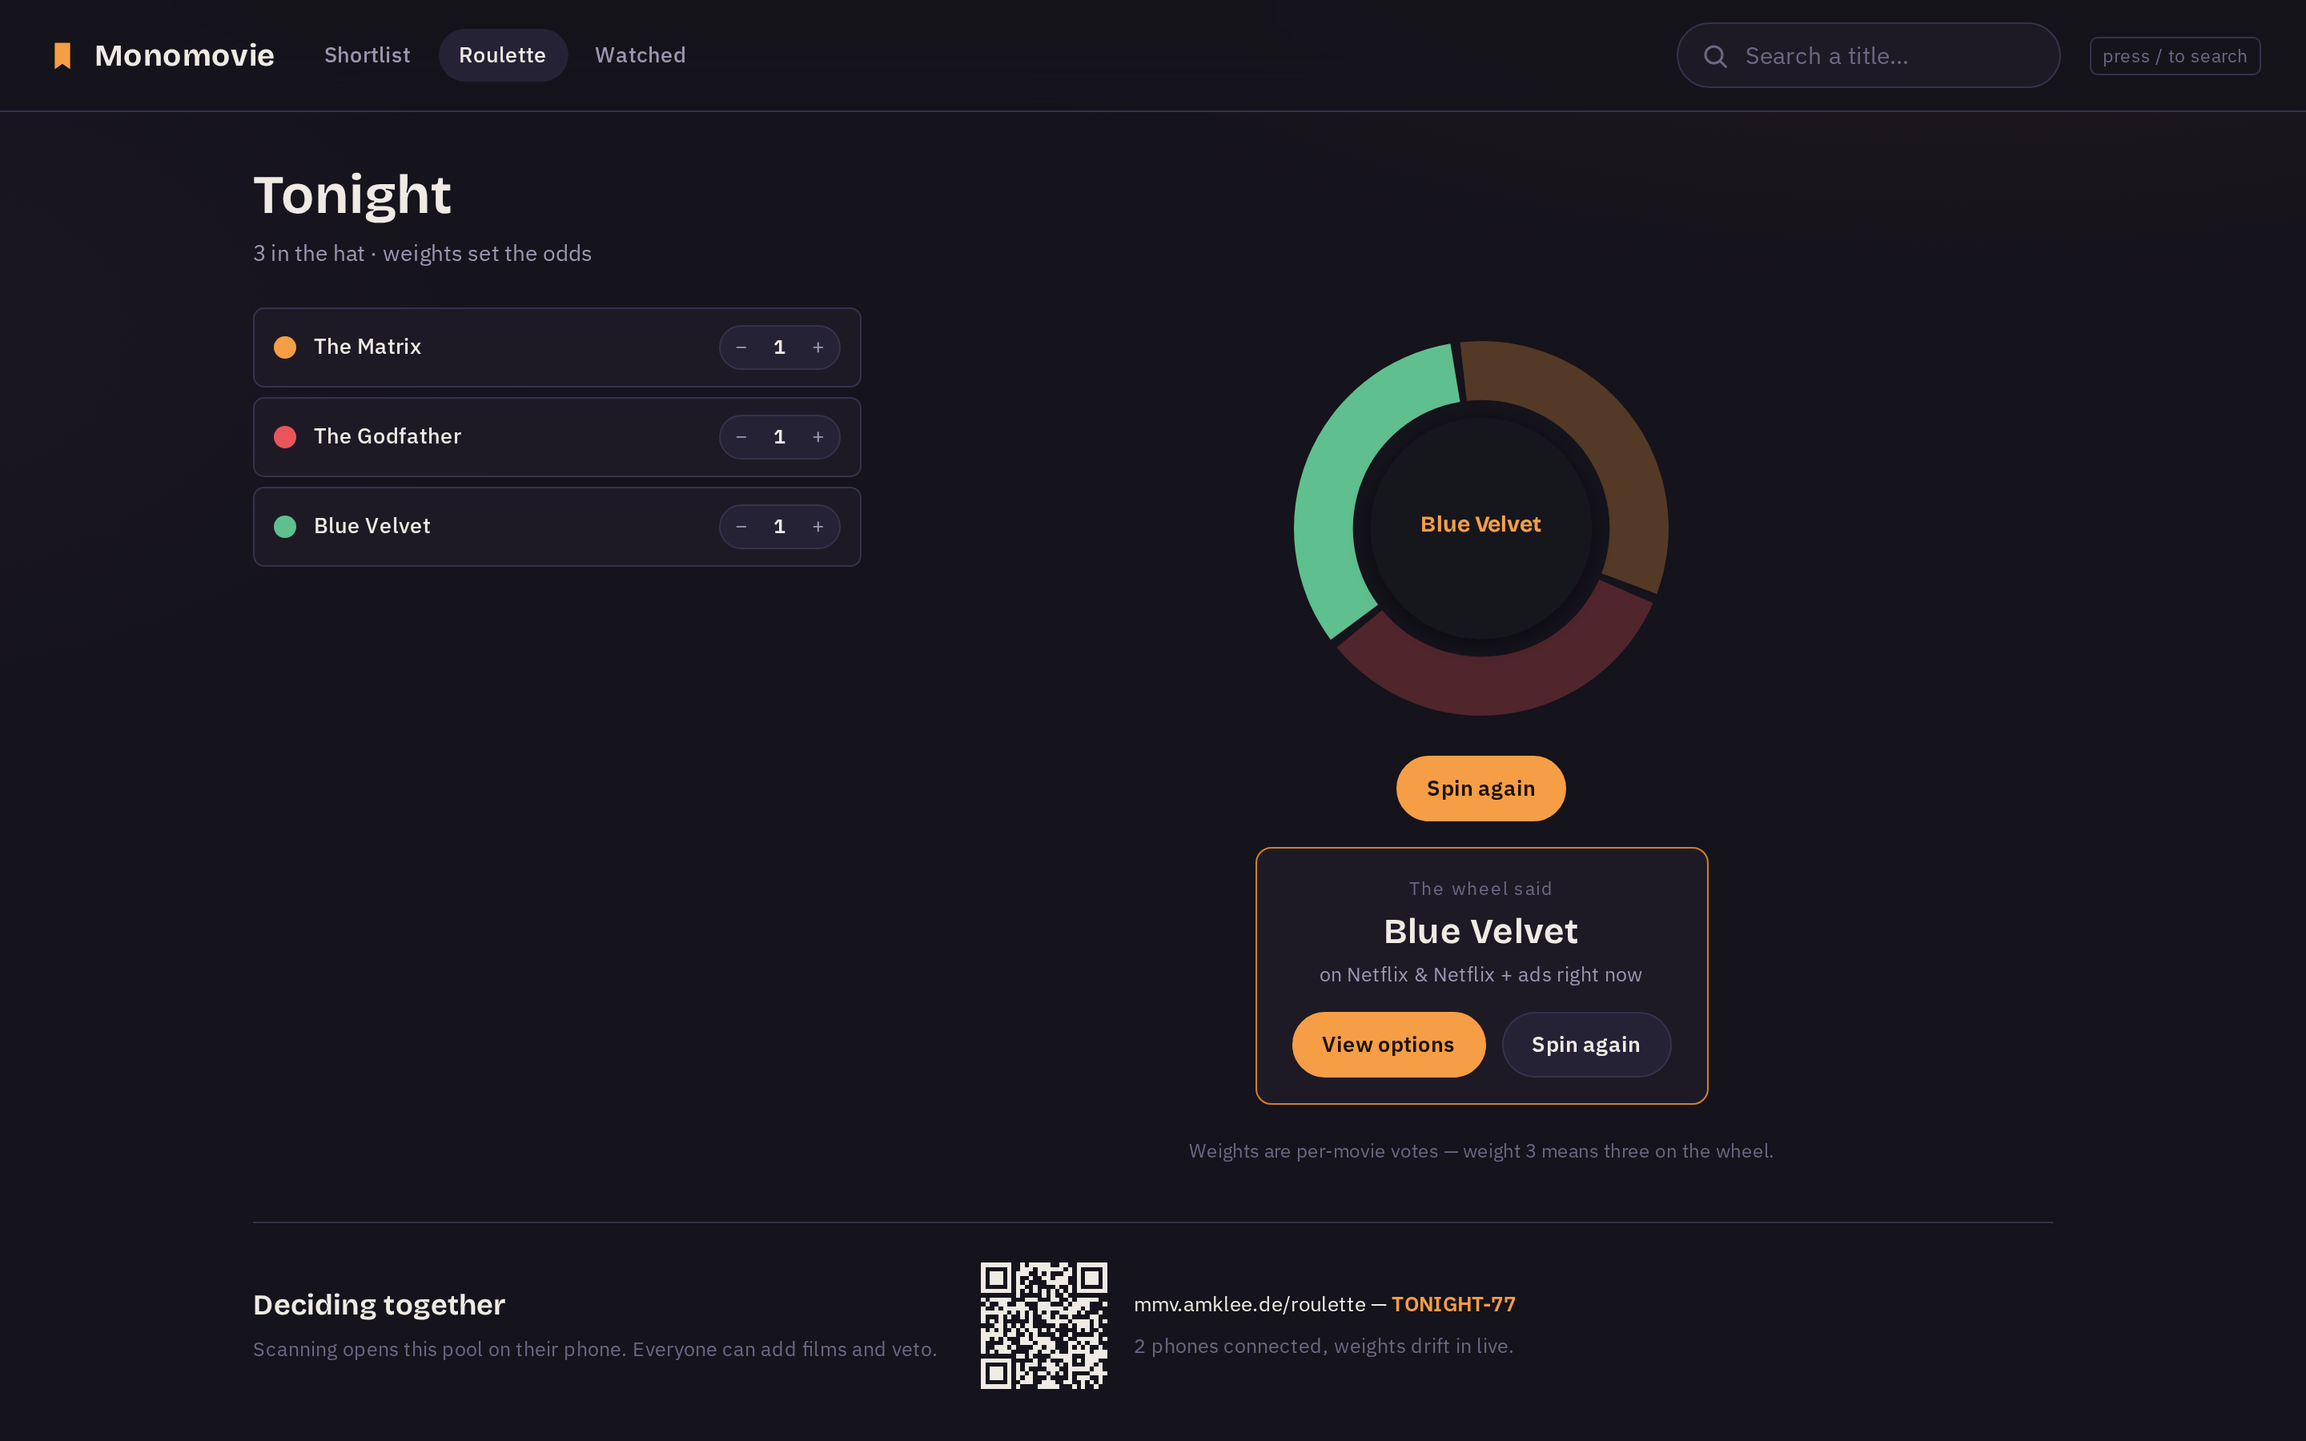
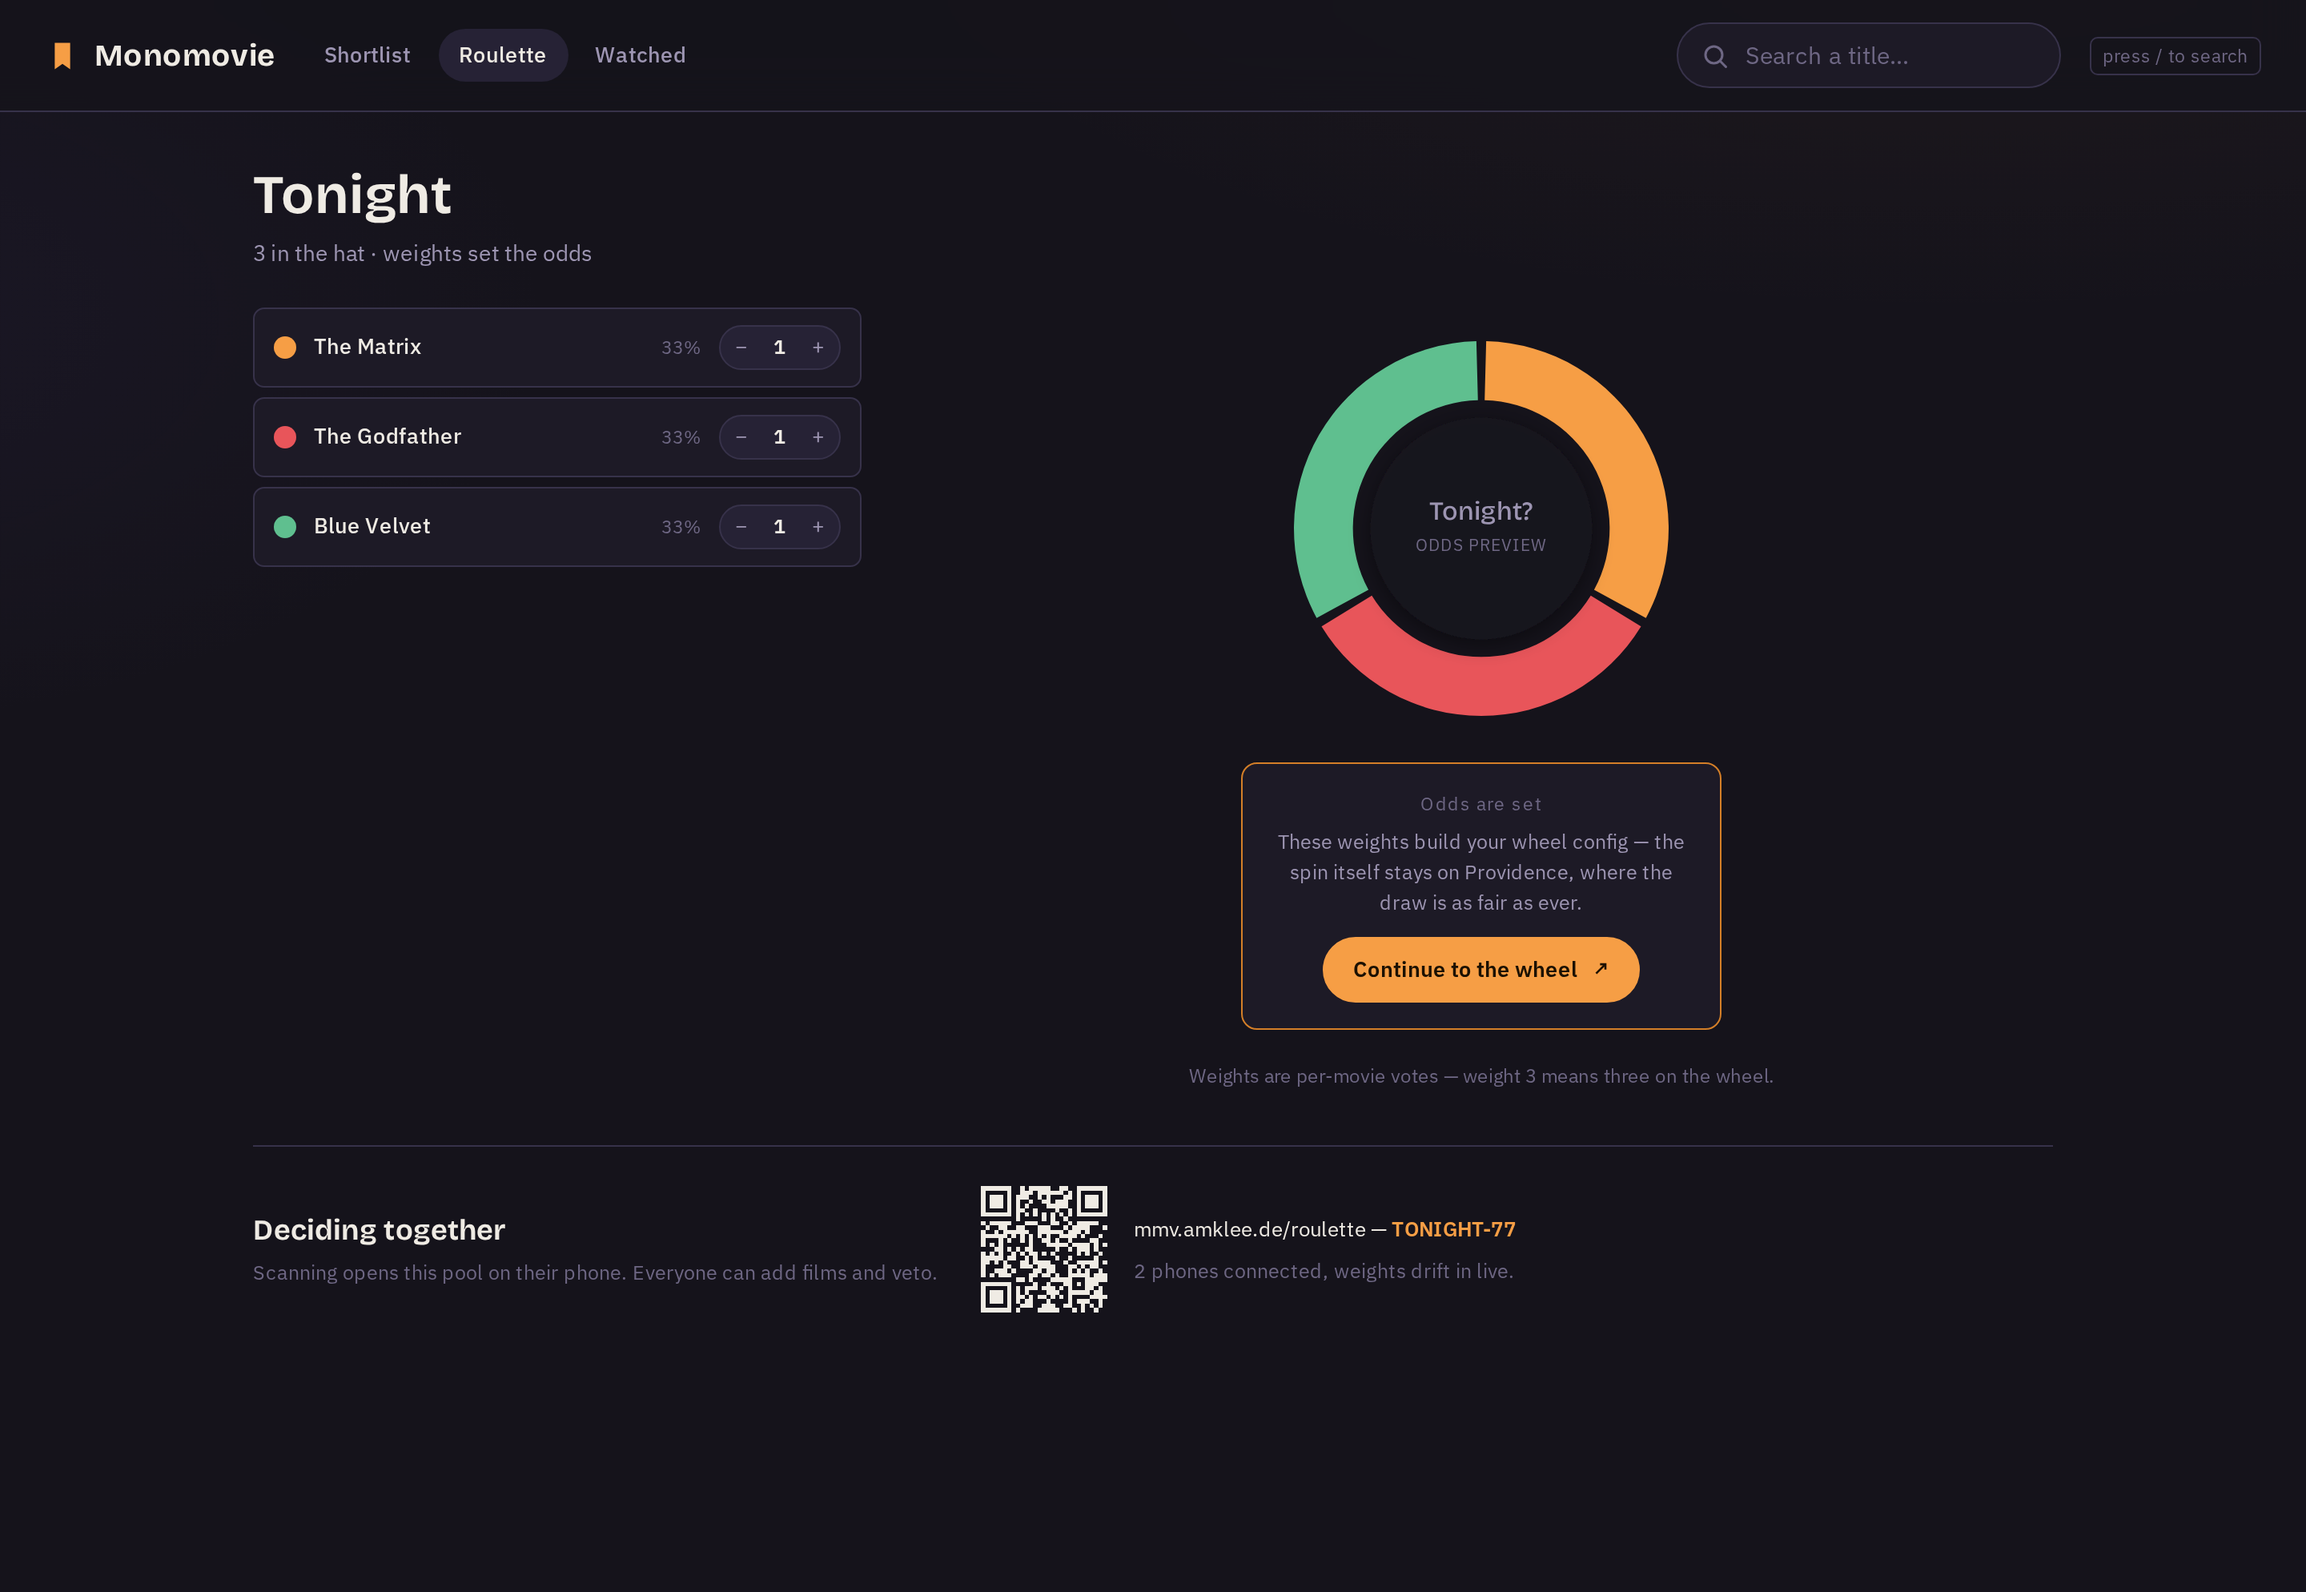
feat: don't slopulate another roulette

diff --git a/design-mockups/src/RouletteView.tsx b/design-mockups/src/RouletteView.tsx
@@ -1,5 +1,5 @@
 import { useMemo, useState } from "react";
-import { byId, type Movie } from "./data";
+import { type Movie } from "./data";
 import { mockQr } from "./qr";
 import Icons from "./Icons";
 
@@ -23,8 +23,8 @@ function sectorPath(cx: number, cy: number, r0: number, r1: number, a0: number, 
   ].join(" ");
 }
 
-function Wheel({ picks, weights, winner, spinning }: {
-  picks: Movie[]; weights: Record<string, number>; winner: string | null; spinning: boolean;
+function Wheel({ picks, weights }: {
+  picks: Movie[]; weights: Record<string, number>;
 }) {
   const on = picks.filter(m => (weights[m.id] ?? 1) > 0);
   const total = on.reduce((sum, m) => sum + (weights[m.id] ?? 1), 0) || 1;
@@ -42,7 +42,7 @@ function Wheel({ picks, weights, winner, spinning }: {
           <feDropShadow dx="0" dy="3" stdDeviation="6" floodOpacity="0.45" />
         </filter>
       </defs>
-      <g className={spinning ? "spin-g" : undefined}>
+      <g>
         {segments.map(({ m, start, end }) => {
           const pad = segments.length > 1 ? 1.5 : 0;
           return (
@@ -50,18 +50,13 @@ function Wheel({ picks, weights, winner, spinning }: {
               key={m.id}
               d={sectorPath(120, 120, 74, 108, start + pad, end - pad)}
               fill={m.wheel}
-              opacity={winner && winner !== m.id ? 0.28 : 1}
             />
           );
         })}
       </g>
       <circle cx="120" cy="120" r="64" fill="rgba(21,19,27,.92)" filter="url(#wheel-shadow)" />
-      {winner == null && <text className="wheel-center" x="120" y="118">Tonight?</text>}
-      {winner != null && (
-        <text className="wheel-center wheel-center-winner" x="120" y="122">
-          {byId[winner]?.title.split(" ").slice(0, 2).join(" ")}
-        </text>
-      )}
+      <text className="wheel-center" x="120" y="115">Tonight?</text>
+      <text className="wheel-center-sub" x="120" y="133">odds preview</text>
     </svg>
   );
 }
@@ -83,25 +78,17 @@ export default function RouletteView({ pickedMovies, weightOf, setWeight, open }
   open: (id: string) => void;
 }) {
   const weights = useMemo(() => Object.fromEntries(pickedMovies.map(m => [m.id, weightOf(m.id)])), [pickedMovies, weightOf]);
-  const [spinning, setSpinning] = useState(false);
-  const [winner, setWinner] = useState<string | null>(null);
   const [shared, setShared] = useState(false);
 
-  const go = () => {
-    if (pickedMovies.length < 2) return;
-    setWinner(null);
-    setSpinning(true);
-    // weighted draw, revealed after the animation
-    const pool: string[] = [];
-    for (const m of pickedMovies) {
-      const w = weightOf(m.id);
-      for (let i = 0; i < w; i++) pool.push(m.id);
-    }
-    window.setTimeout(() => {
-      setWinner(pool[Math.floor(Math.random() * pool.length)] ?? null);
-      setSpinning(false);
-    }, 2600);
-  };
+  const weighted = pickedMovies.filter(m => weightOf(m.id) > 0);
+  const totalWeight = weighted.reduce((sum, m) => sum + weightOf(m.id), 0);
+  const odds = useMemo(
+    () => Object.fromEntries(pickedMovies.map(m => [
+      m.id,
+      weightOf(m.id) === 0 ? "—" : `${Math.round((weightOf(m.id) / (totalWeight || 1)) * 100)}%`,
+    ])),
+    [pickedMovies, weightOf, totalWeight],
+  );
 
   if (pickedMovies.length === 0) {
     return (
@@ -128,34 +115,27 @@ export default function RouletteView({ pickedMovies, weightOf, setWeight, open }
             <li key={m.id} className="roulette-row">
               <button className="roulette-swatch" style={{ background: m.wheel }} aria-hidden="true" onClick={() => open(m.id)} />
               <button className="roulette-title" onClick={() => open(m.id)}>{m.title}</button>
+              <span className="roulette-odds" title="Share of the wheel">{odds[m.id]}</span>
               <Stepper w={weightOf(m.id)} onChange={w => setWeight(m.id, w)} />
             </li>
           ))}
         </ul>
         <div className="roulette-stage">
-          <Wheel picks={pickedMovies} weights={weights} winner={winner} spinning={spinning} />
-          {winner == null && (
-            <button className="btn btn-primary btn-spin" onClick={go} disabled={spinning || pickedMovies.length < 2}>
-              {spinning ? "Spinning…" : "Spin the wheel"}
-            </button>
-          )}
-          {winner && (() => {
-            const w = byId[winner];
-            const flat = w.offers.filter(o => o.type === "flatrate");
-            return (
-              <div className="winner-card" role="status">
-                <p className="winner-label">The wheel said</p>
-                <h2 className="winner-title">{w.title}</h2>
-                {flat.length > 0 && (
-                  <p className="winner-sub">on {flat.slice(0, 2).map(o => o.provider).join(" & ")} right now</p>
-                )}
-                <div className="winner-actions">
-                  <a className="btn btn-primary" href={`#/movie/${w.id}`}>View options</a>
-                  <button className="btn" onClick={() => { setWinner(null); }}>Spin again</button>
-                </div>
-              </div>
-            );
-          })()}
+          <Wheel picks={pickedMovies} weights={weights} />
+          <div className="handoff-card" role="region" aria-label="Continue to the wheel">
+            <p className="handoff-kicker">Odds are set</p>
+            <p className="handoff-sub">
+              These weights build your wheel config — the spin itself stays on Providence,
+              where the draw is as fair as ever.
+            </p>
+            {totalWeight > 0 ? (
+              <a className="btn btn-primary" href="https://providence.jfronny.dev" target="_blank" rel="noreferrer">
+                Continue to the wheel <span className="ext-mark" aria-hidden="true">↗</span>
+              </a>
+            ) : (
+              <p className="handoff-sub handoff-hint">Give at least one film a weight to build the wheel.</p>
+            )}
+          </div>
           <p className="wheel-note">
             Weights are per-movie votes — weight 3 means three on the wheel.
           </p>

diff --git a/design-mockups/src/styles.css b/design-mockups/src/styles.css
@@ -380,6 +380,11 @@ verdict-none { color: var(--type-faint); font-size: 11px; }
   flex: 1; min-width: 0; white-space: nowrap; overflow: hidden; text-overflow: ellipsis;
 }
 .roulette-title:hover { color: var(--amber); }
+.roulette-odds {
+  flex: none; width: 38px; text-align: right;
+  font-size: 11.5px; font-variant-numeric: tabular-nums;
+  color: var(--type-faint); cursor: default;
+}
 .stepper {
   display: inline-flex; align-items: center; gap: 2px;
   border: 1px solid var(--line); border-radius: 999px; padding: 2px;
@@ -399,27 +404,23 @@ verdict-none { color: var(--type-faint); font-size: 11px; }
 
 .roulette-stage { display: flex; flex-direction: column; align-items: center; gap: 16px; padding-top: 8px; }
 .wheel { width: 260px; height: 260px; }
-.spin-g { transform-box: fill-box; transform-origin: center; animation: spin 2.6s cubic-bezier(0.15, 0.75, 0.25, 1) both; }
-@keyframes spin { from { transform: rotate(1377.5deg); } to { transform: rotate(1517.5deg); } }
-.wheel-dot { opacity: 0.9; }
 .wheel-center {
   font-family: "Bricolage Grotesque Variable", sans-serif;
   font-variation-settings: "wdth" 88, "wght" 500;
   fill: var(--type-dim); font-size: 15px; text-anchor: middle;
 }
-.wheel-center-winner { fill: var(--amber); font-size: 13px; font-variation-settings: "wdth" 88, "wght" 700; }
-.btn-spin { margin-top: -4px; }
+.wheel-center-sub { fill: var(--type-faint); font-size: 9.5px; letter-spacing: 0.08em; text-anchor: middle; text-transform: uppercase; }
 .wheel-note { color: var(--type-faint); font-size: 12px; margin: 4px 0 0; }
-.winner-card {
+.handoff-card {
   background: var(--ink-2); border: 1px solid var(--amber-deep);
   border-radius: var(--radius); padding: 16px 22px; text-align: center;
-  animation: rise 260ms ease both;
+  max-width: 300px; animation: rise 260ms ease both;
 }
 @keyframes rise { from { opacity: 0; transform: translateY(6px); } }
-.winner-label { margin: 0; color: var(--type-faint); font-size: 11.5px; letter-spacing: 0.05em; }
-.winner-title { margin: 6px 0 2px; font-size: 22px; }
-.winner-sub { margin: 0; color: var(--type-dim); font-size: 12.5px; }
-.winner-actions { display: flex; gap: 10px; justify-content: center; margin-top: 14px; }
+.handoff-kicker { margin: 0; color: var(--type-faint); font-size: 11.5px; letter-spacing: 0.05em; }
+.handoff-sub { margin: 6px 0 12px; color: var(--type-dim); font-size: 12.5px; line-height: 1.5; }
+.handoff-hint { margin: 0; color: var(--type-faint); }
+.ext-mark { font-size: 12px; margin-left: 2px; }
 
 .share-panel {
   margin-top: 34px; border-top: 1px solid var(--line); padding-top: 22px;

diff --git a/design-mockups/README.md b/design-mockups/README.md
@@ -29,7 +29,7 @@ visible object instead of a disabled grey button.
 | ---------------- | --------------------------------------------- | ---------------------------------------------------------------------- |
 | Home             | "Bookmarked Movies:", tall list rows          | **Shortlist**: poster grid, hover detail, filter chips                 |
 | Decision         | Weights only inside `/roulette`               | **Decision bar** fixed at bottom; picked movies carry wheel colours     |
-| Roulette         | Redirect to external wheel (providence)       | In-app wheel (donut, weights, spin → winner card). Shared room + QR     |
+| Roulette         | Redirect to external wheel (providence)       | **Odds preview**: live donut + per-movie % as you tune weights, then a hand-off card that opens the real spin on Providence. Shared room + QR |
 | Offers page      | All ISO countries tabled at once              | DE-first groups (subscription / free / rent / buy), countries collapsed |
 | Watched          | Date-grouped list                             | Month-grouped ledger with one-line rows and un-watch affordance        |
 | Search           | Separate page + infinite scroll               | Ambient header search (`/` shortcut), live results, type badge         |
@@ -42,7 +42,7 @@ Type: **Bricolage Grotesque** (display) + **IBM Plex Sans** (UI).
 
 ## Feature suggestions included in the mockup
 
-1. In-app wheel (external dependency stays optional), weights shown as odds
+1. Odds preview before the spin — tune weights against the live donut, then continue to Providence (the external wheel stays external: its fairness logic is not something the mockup should duplicate)
 2. Type badges — JustWatch search results leak TV series today
 3. DE-first country groups instead of the full country dump
 4. Filter chips on the shortlist ("Streaming in DE", "Hide watched")
